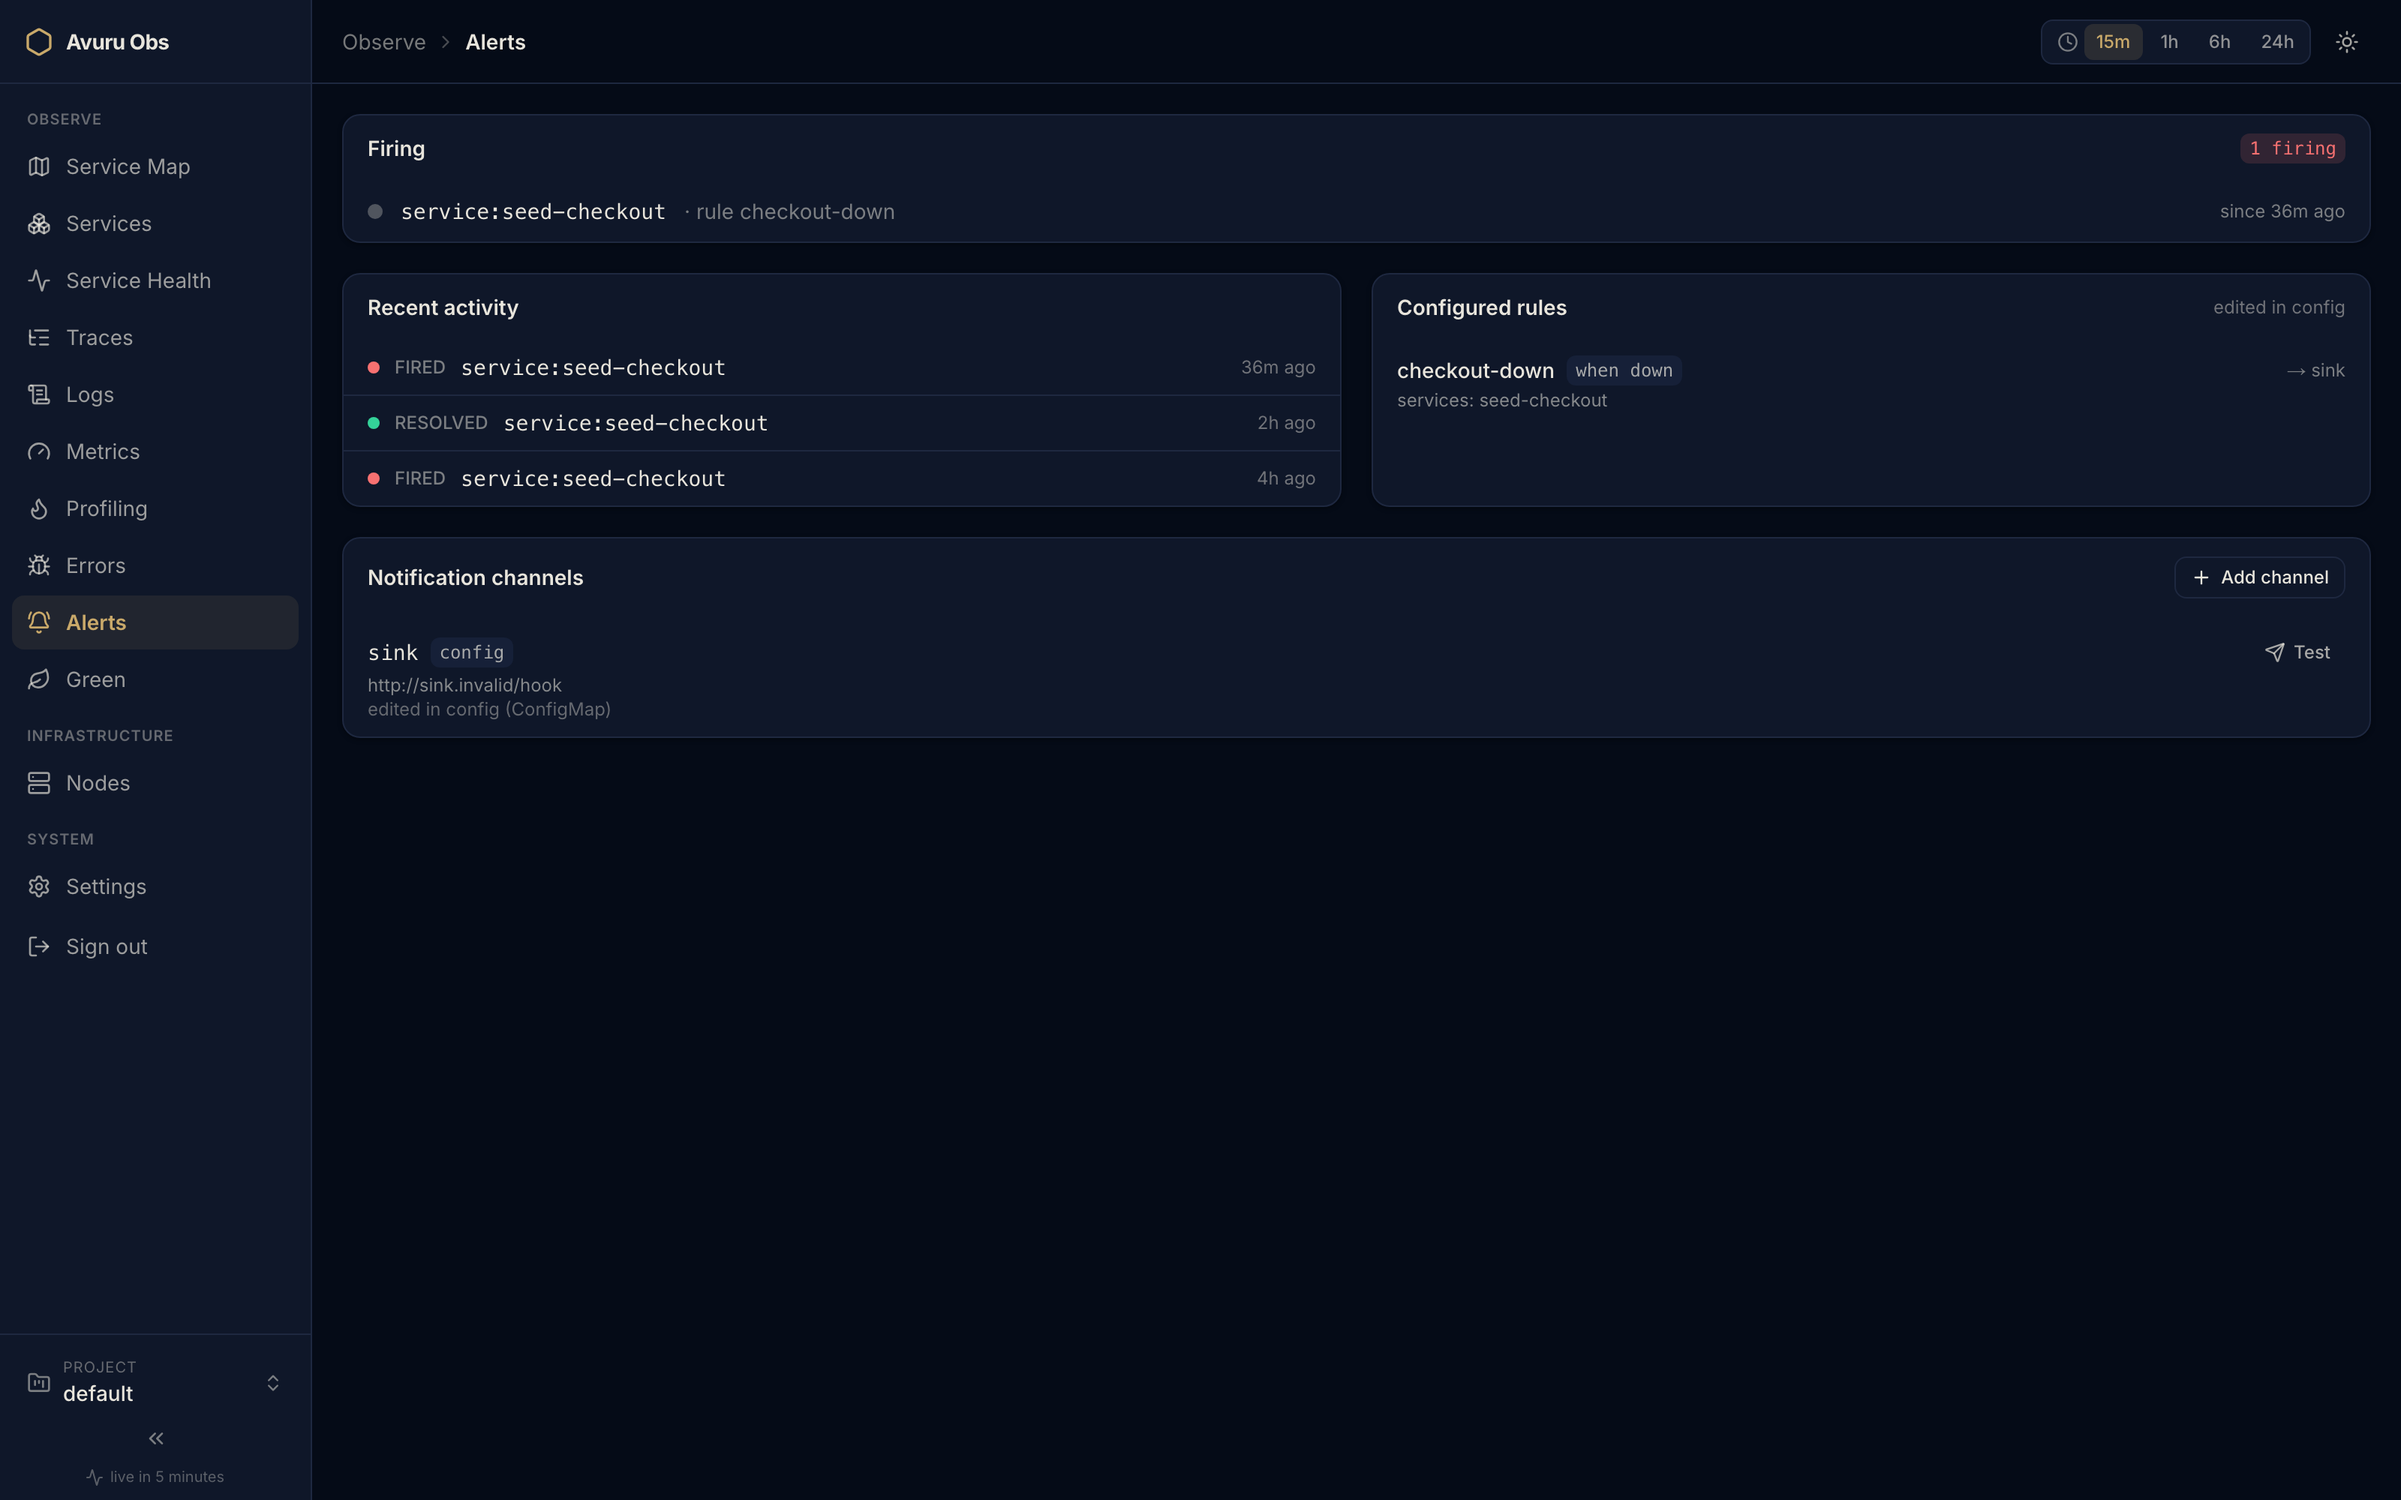
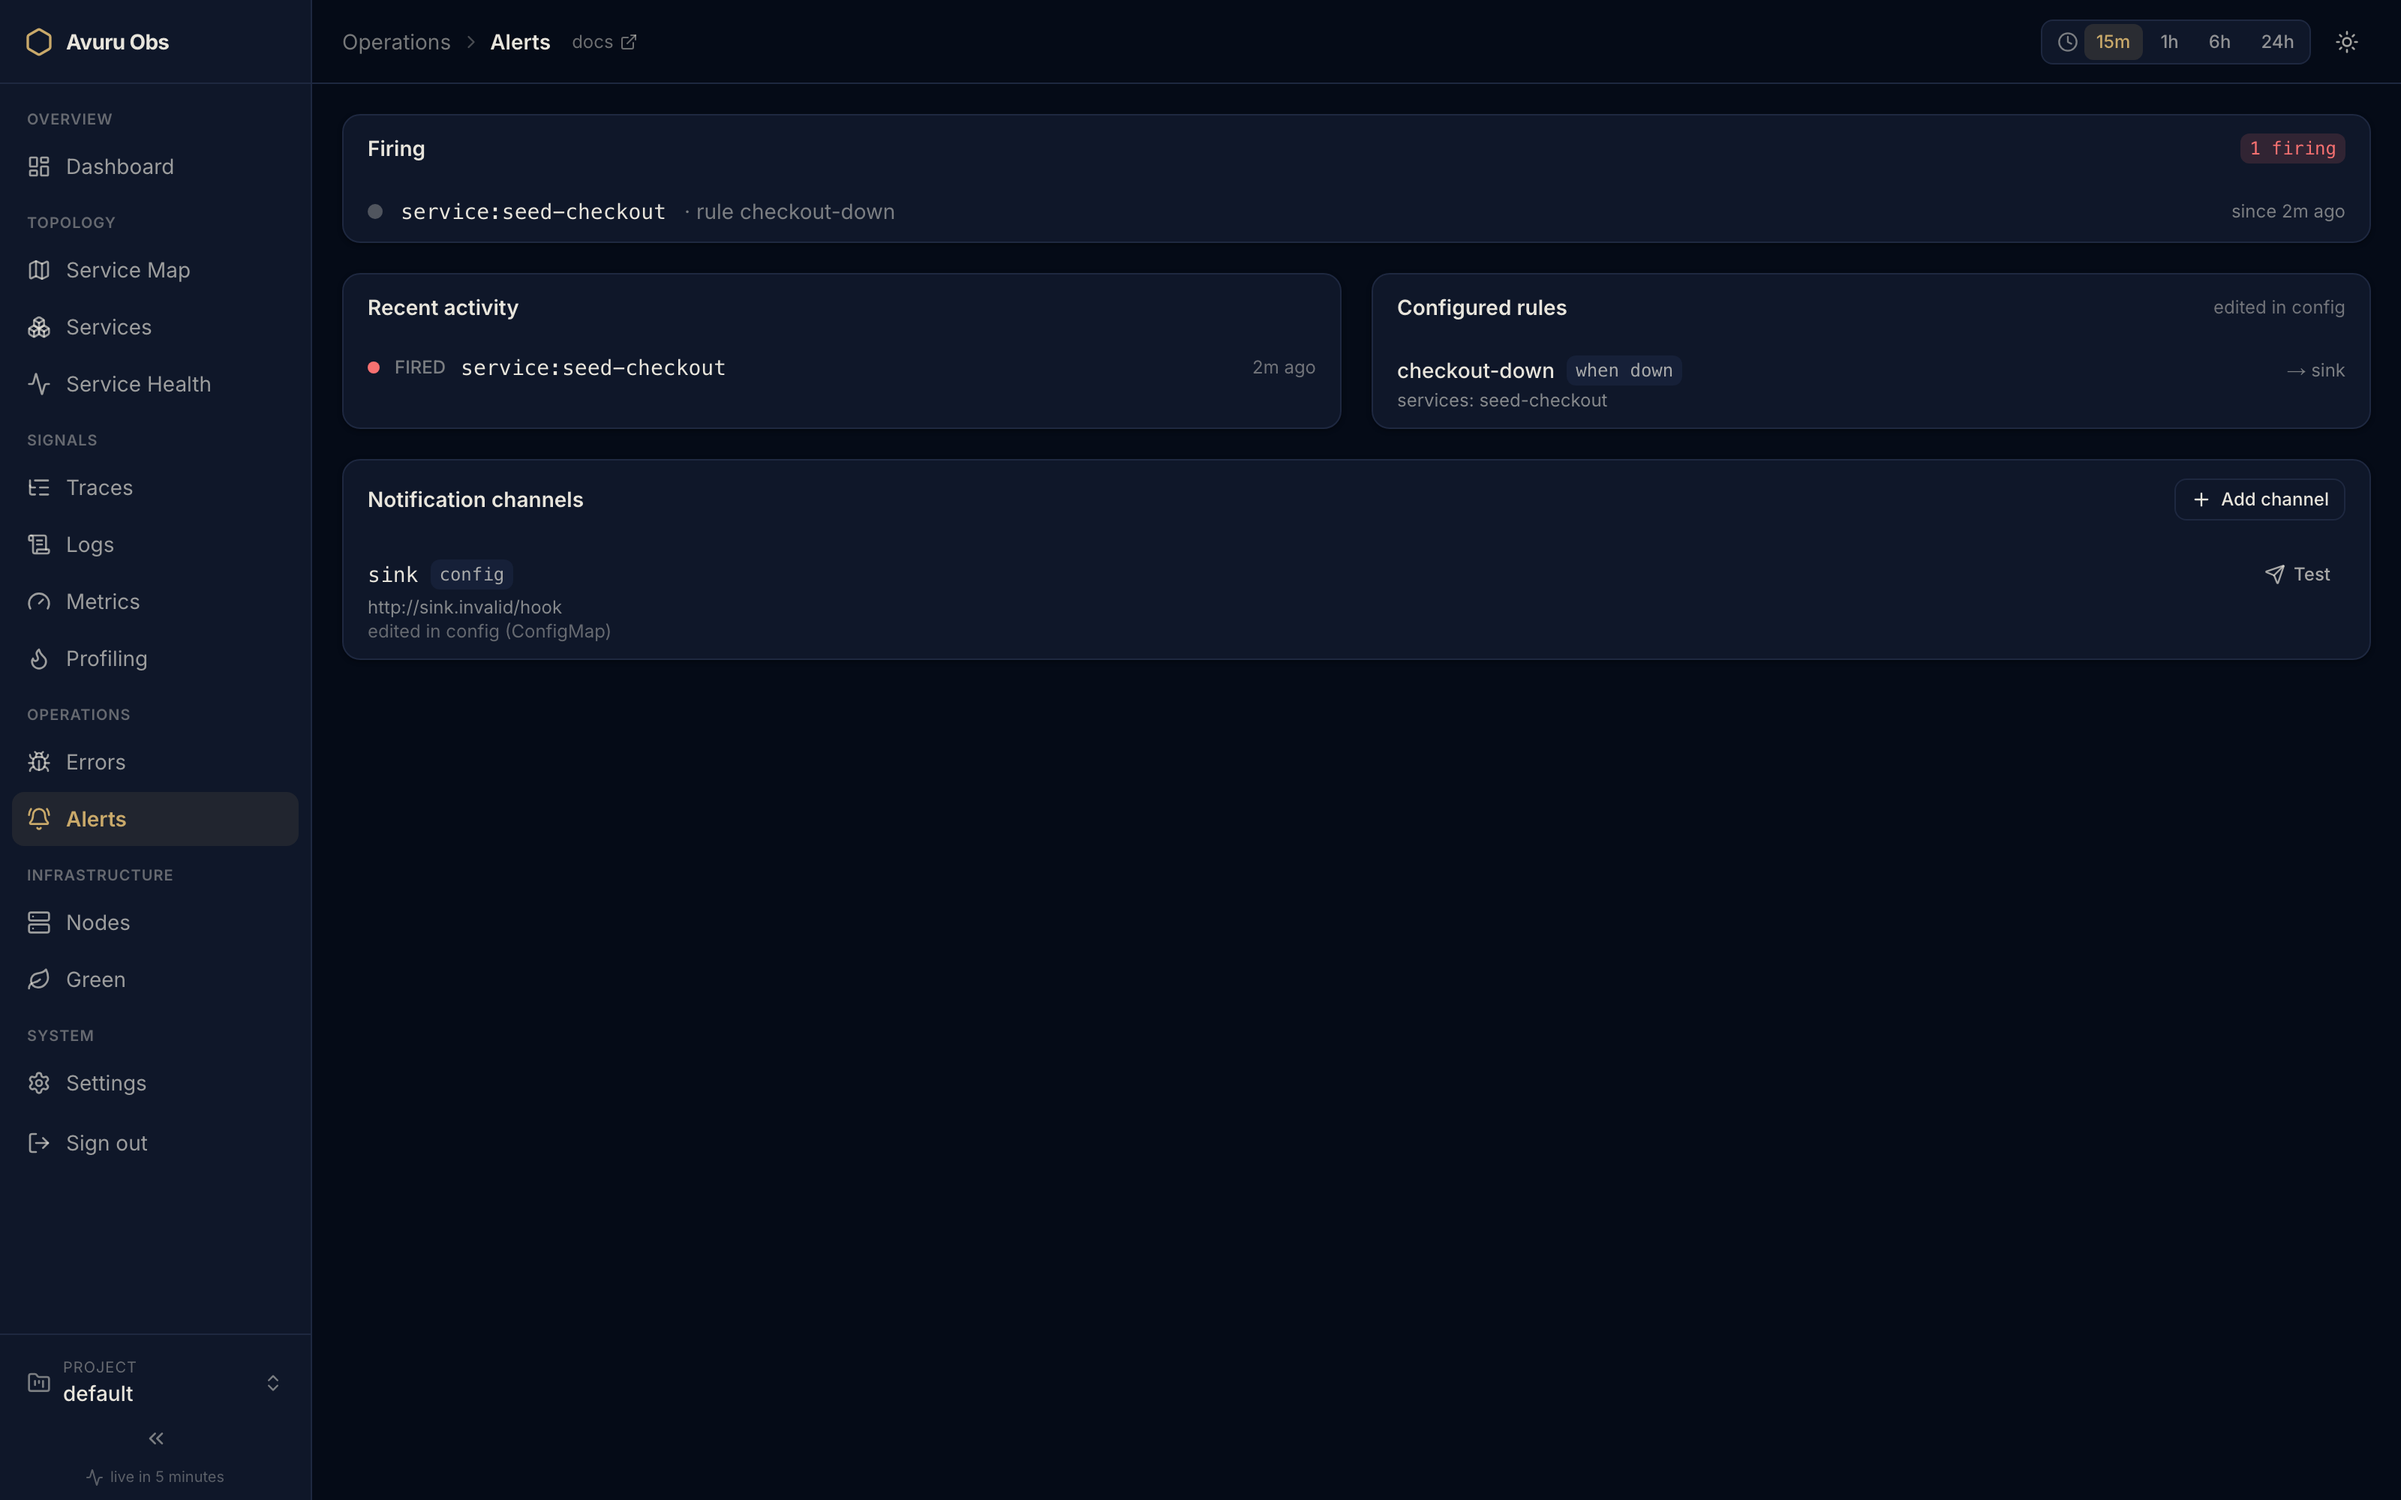
docs(images): recapture the launch screenshots on the v0.8.0 images
The six README/launch shots dated from 2026-07-31 and showed the pre-v0.8
product: the flat "Observe" sidebar, a seven-node map with no health rings,
no legend and no dependency nodes. Recaptured from the released v0.8.0
images through tools/screenshots, so the images show what a v0.8.0 install
actually renders — the layered sidebar, the map's encoding legend, the
dashed-hexagon databases, caches and queues, and the declared-metadata
badges on Service Health.

The recipe's example pinned AVURUOBS_VERSION to v0.2.0, which is exactly
the staleness it warns against two lines further down; it now names the
current release.

diff --git a/tools/screenshots/README.md b/tools/screenshots/README.md
@@ -11,7 +11,7 @@ From the repo root:
 ```bash
 # 1. Start the release sandbox on collision-free ports, isolated from any
 #    other compose project on the machine (never omit -p).
-AVURUOBS_VERSION=v0.2.0 docker compose -p avuru-shots \
+AVURUOBS_VERSION=v0.8.0 docker compose -p avuru-shots \
   -f deploy/compose/docker-compose.release.yaml \
   -f tools/screenshots/compose.screenshots.yaml up --wait
 
